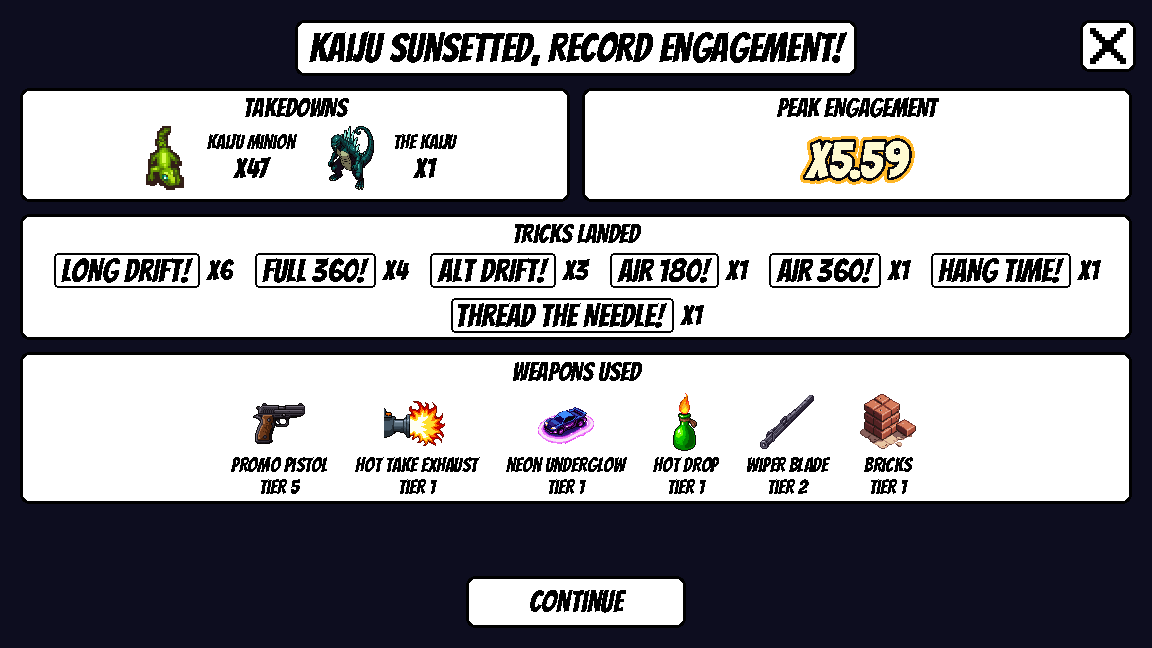
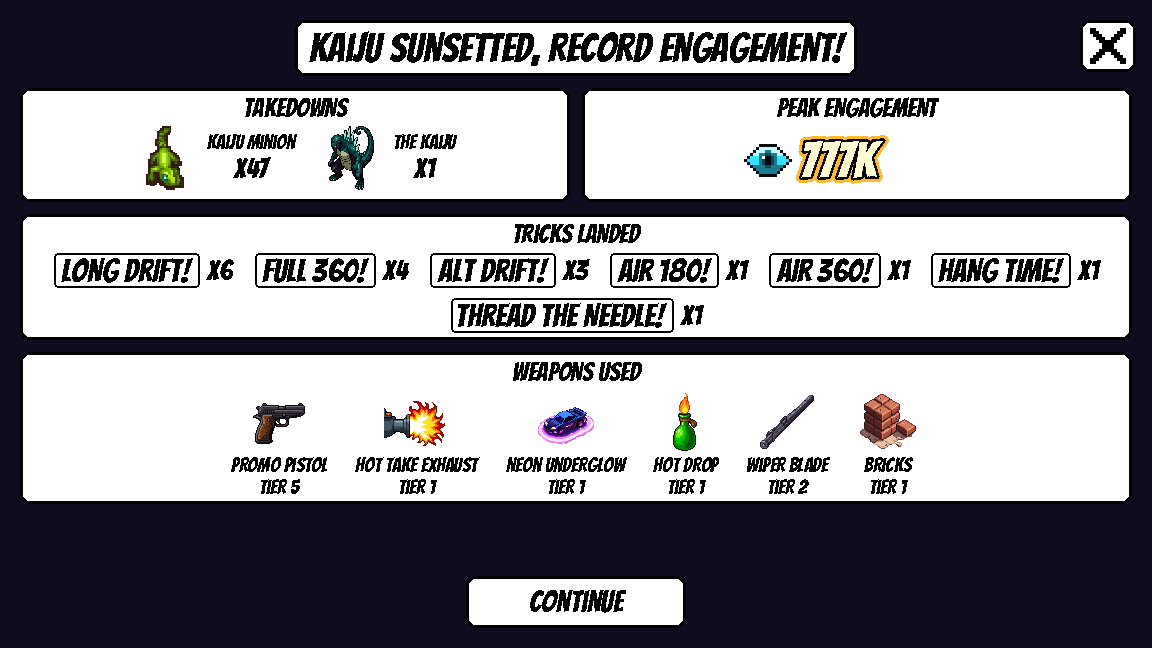
T-320: quick tuning, peak engagement shows the peak live viewers

Changed region(s): [[0.625, 0.216, 0.8125, 0.2778]]

diff --git a/game/docs/hud-and-menus/recap-screen.md b/game/docs/hud-and-menus/recap-screen.md
@@ -8,10 +8,10 @@ Task T-320 (UI Agent). What the player sees and does: `docs/hud-and-menus.md`, C
 
 - **Files:** `scripts/ui/recap_screen.gd` (class `RecapScreen`, a full-rect `Control`, nearest filtering), `scenes/menu/recap_screen.tscn` (the scene `GameFlow` instantiates as `game.recap`).
 - **API:** `show_summary(summary)` shows a `RunState.recap()` dictionary (T-319), replacing what is on show; a summary read back from JSON (the run history, T-363, all numbers floats) works the same, so the runs list (T-364) can reopen a saved run. `closed` is sent once by Continue (`continue_button`), the X (`close_button`) or a fresh Enter / keypad Enter (`_unhandled_key_input`, echoes ignored); `close()` does the same. `is_animating()`, `finish_animation()` (tests and screenshots).
-- **For tests:** `title_label`, `sections` (`"enemies"`, `"combo"`, `"tricks"`, `"weapons"` to their panels, only those on show), `enemy_rows[id]` = `{image, name, count}`, `trick_rows[id]` = `{image, count}`, `weapon_rows[id]` = `{image, name, tier}`, `combo_label`, `combo_heat`.
-- **Text:** every word from `res://data/recap_text.json` (T-318) through `RecapScreen.text("dotted.key")`; the title key from `title_key(summary)` (`win`; `time_up` for `loss_reason` "time"; otherwise `wreck`). Counts and the combo use the HUD's count form `WeaponIcons.TEXT_COUNT` ("x{n}"; the combo with two decimals, `combo_text()`). An id with no text in the file is not shown.
-- **Pictures:** enemies: `enemy_image(id)` takes the first square frame of `ENEMY_ART[id]` (`art/minion/minion_s.png`, `art/kaiju/kaiju_s.png`), cropped to its used pixels, cached; weapons: `LevelUpScreen.weapon_image(id)` (the card art, or its placeholder); tricks: `TrickPopupArt.texture(name, "normal", 0)`, the plain popup; the combo: a Bangers label styled by its own `ComboHeat` (`set_multiplier(highest_combo)`), inside a fixed-size holder so the pulse's scale is never reset by a container. The X is drawn in code (`CLOSE_GRID`, 12 x 12 at 3x).
+- **For tests:** `title_label`, `sections` (`"enemies"`, `"combo"`, `"tricks"`, `"weapons"` to their panels, only those on show), `enemy_rows[id]` = `{image, name, count}`, `trick_rows[id]` = `{image, count}`, `weapon_rows[id]` = `{image, name, tier}`, `peak_label`, `combo_heat`.
+- **Text:** every word from `res://data/recap_text.json` (T-318) through `RecapScreen.text("dotted.key")`; the title key from `title_key(summary)` (`win`; `time_up` for `loss_reason` "time"; otherwise `wreck`). Counts use the HUD's count form `WeaponIcons.TEXT_COUNT` ("x{n}", `count_text()`); the peak viewers use the counter's own number format. An id with no text in the file is not shown.
+- **Pictures:** enemies: `enemy_image(id)` takes the first square frame of `ENEMY_ART[id]` (`art/minion/minion_s.png`, `art/kaiju/kaiju_s.png`), cropped to its used pixels, cached; weapons: `LevelUpScreen.weapon_image(id)` (the card art, or its placeholder); tricks: `TrickPopupArt.texture(name, "normal", 0)`, the plain popup; Peak engagement (quick tuning, board 2026-10-29: viewers, not a multiplier): `peak_label` shows `ViewersData.format(peak_viewers(summary))` (the summary's `peak_viewers`; for an older summary without it, `RunState.peak_viewers_for(highest_combo)`), after the viewers' eye (`EYE_PATH` `art/hud/eye_icon.png` at `EYE_SCALE` 3); its look is the live viewers counter's: the heat step from `ViewersData.step_for_viewers` (fire takes the top step) applied by its own `ComboHeat` (`set_multiplier` at that step's threshold: colour, glow, pulse), or at the base the viewers colour (`viewers_color()`, hud.json `viewers_counter.color`); the label sits in a fixed-size holder so the pulse's scale is never reset by a container. The X is drawn in code (`CLOSE_GRID`, 12 x 12 at 3x).
 - **Order and leaving out:** enemies and tricks follow the text file's key order and are left out at 0; weapons follow the summary (the order taken) and need tier 1 or more; an empty section is left out.
 - **Look:** `StyleBoxFlat` panels and buttons (white, 3 px black border, 10 px corners, `anti_aliasing = false`), `Hud.comic_font()`, the main menu's background colour. The buttons have `focus_mode = FOCUS_NONE`. Pop-in: the title then each section, alpha in `POP_STEPS` per `FRAME` (0.04 s), `STAGGER` 0.12 s apart.
-- **Tests:** `tests/unit/test_recap_screen.gd` (titles per ending, counts above 0 only, trick popups, weapon card images and tiers, enemy sprites, the combo's heat step, empty sections left out, a JSON summary, every label from the text file, no words typed in the script, Continue / X / Enter close once, no keyboard focus, the X at the top right with nothing overlapping at 1152 x 648, the pop-in, a scripted run); the flow in `tests/unit/game/test_screen_flow.gd`.
+- **Tests:** `tests/unit/test_recap_screen.gd` (titles per ending, counts above 0 only, trick popups, weapon card images and tiers, enemy sprites, the peak viewers number, its look and the eye, an older summary without peak viewers, empty sections left out, a JSON summary, every label from the text file, no words typed in the script, Continue / X / Enter close once, no keyboard focus, the X at the top right with nothing overlapping at 1152 x 648, the pop-in, a scripted run); the flow in `tests/unit/game/test_screen_flow.gd`.
 - **Screenshots:** `bash game/tools/screenshot.sh res://tests/fixtures/recap_screen_win_demo.tscn <out.png> 90` (also `recap_screen_wreck_demo.tscn`, `recap_screen_time_up_demo.tscn`; fixture script `tests/fixtures/recap_screen_demo.gd`, which isolates the saves with `TestSave.isolate()`). Saved: `art-archive/T-320/screenshots/`.

diff --git a/docs/hud-and-menus.md b/docs/hud-and-menus.md
@@ -155,7 +155,7 @@ Task T-318 (decision: Game loop architecture, Decisions, "Recap screen in the MV
 - **Weapon names** (`weapon.*`): "Promo pistol" (new, the gun has no card title), and reused from the level-up cards' titles: "Hot Take Exhaust" (flamethrower), "Neon Underglow", "Hot Drop" (molotov), "Wiper Blade", "Bricks".
 - **Trick names** (`trick.*`), all reused word for word from the trick popups: LONG DRIFT!, FULL 360!, ALT DRIFT!, AIR 180!, AIR 360!, HANG TIME!, THREAD THE NEEDLE!.
 
-**The screen (task T-320).** Right after a run ends (after the wreck's 3 seconds on a health loss) the run makes way for the recap, full screen over the main menu's dark background, in the game's comic look: white rounded panels with black borders, black Bangers lettering with hard pixel edges, no generated art. From the top: the **title** for how the run ended in its own panel, with the **X** (a black pixel X on a white rounded square) at the top right; then **Takedowns** (each enemy type killed, its sprite, the first frame of its south-facing sheet, its name and "x{count}", e.g. "x47") beside **Peak engagement** (the highest combo as "x5.59", in the combo counter's heated look for that multiplier: colour, glow and pulse; Decisions, "Combo heat"); then **Tricks landed** (each trick as its plain trick popup, followed by "x{count}", wrapping onto a second row when needed); then **Weapons used** (each weapon the car ended with, its level-up card image, its name and "Tier {tier}"); and **Continue** at the bottom centre. "x{n}" is the HUD's own count form (the weapon icons'). A trick or an enemy with a count of 0 is left out. Proposals for the playtest: a section with nothing to show (no kills, no tricks) is left out; the highest combo always shows (x1.00 in the base look with no tricks); enemies and tricks are in the text file's order, weapons in the order taken; the panels pop in one after another (the title first) in stepped frames, about 0.7 seconds in all, while Continue and the X work at once; Enter also continues, and the buttons take no keyboard focus, so a key held from driving presses nothing. The screen can show any run's summary, also one read back from the run history, so the runs list (T-364) can reopen a saved run in it. How it is built: `game/docs/hud-and-menus/recap-screen.md`.
+**The screen (task T-320).** Right after a run ends (after the wreck's 3 seconds on a health loss) the run makes way for the recap, full screen over the main menu's dark background, in the game's comic look: white rounded panels with black borders, black Bangers lettering with hard pixel edges, no generated art. From the top: the **title** for how the run ended in its own panel, with the **X** (a black pixel X on a white rounded square) at the top right; then **Takedowns** (each enemy type killed, its sprite, the first frame of its south-facing sheet, its name and "x{count}", e.g. "x47") beside **Peak engagement** (the board's quick tuning, 2026-10-29: "peak engagement needs to be the max current views number, not a multiplier": the run's peak live viewers, written as the live viewers counter writes it, e.g. "236K" or "1.02M", with the viewers' eye before it, in the counter's look for that number: the viewers colour at the base, then the heat colours, glow and pulse; Live viewers counter, above); then **Tricks landed** (each trick as its plain trick popup, followed by "x{count}", wrapping onto a second row when needed); then **Weapons used** (each weapon the car ended with, its level-up card image, its name and "Tier {tier}"); and **Continue** at the bottom centre. "x{n}" is the HUD's own count form (the weapon icons'). A trick or an enemy with a count of 0 is left out. Proposals for the playtest: a section with nothing to show (no kills, no tricks) is left out; peak engagement always shows (2,500 viewers, the base, with no tricks); a run saved before the peak viewers were kept shows the viewers for its highest combo on the same curve; enemies and tricks are in the text file's order, weapons in the order taken; the panels pop in one after another (the title first) in stepped frames, about 0.7 seconds in all, while Continue and the X work at once; Enter also continues, and the buttons take no keyboard focus, so a key held from driving presses nothing. The screen can show any run's summary, also one read back from the run history, so the runs list (T-364) can reopen a saved run in it. How it is built: `game/docs/hud-and-menus/recap-screen.md`.
 
 ## Open questions
 

diff --git a/tasks/T-320-the-recap-screen.md b/tasks/T-320-the-recap-screen.md
@@ -1,7 +1,7 @@
 ---
 id: T-320
 title: The recap screen after every run, with pictures
-status: needs-playtest
+status: in-progress
 from: project-lead
 to: ui
 lead: Greenbull
@@ -57,6 +57,10 @@ The Project Lead's replies to the board on this ticket, newest last, one entry p
 
 Started (build B): the UI Agent is building the recap screen that closes every run, with Continue and the X, from your approved text.
 
+### 2026-10-29, Needs playtest → In progress
+
+Quick tuning: Peak engagement will show the run's highest live viewers count instead of the combo multiplier.
+
 ## QA report
 
 QA (sonnet), round 1: all seven criteria pass. qa_check: tests (3 sets) PASS, documents PASS, screenshots PASS (recap_win, recap_wreck, recap_time_up; viewed win and wreck: panels, sprites, card images, tiers, X top right, Continue present). Tests cover each ending (win, health, time at today's 0:00 behaviour) with Continue and X to the menu. Docs (HUD and menus, Game loop architecture, game/README.md index plus game/docs topic file) describe the screen. The T-317 hand-off is wired when the branches merge.
@@ -82,3 +86,16 @@ Written by the agent when it finishes.
 - **Docs updated:** `docs/hud-and-menus.md` (Content, "Recap screen": the built screen), `docs/game-loop-architecture.md` (flowchart recap node; Content, "Screen flow"), `game/docs/game-loop/screen-flow.md`, new `game/docs/hud-and-menus/recap-screen.md`, `game/README.md` (index line). Left for the Project Lead: Game loop architecture's old decision "In the MVP there is no recap" (already superseded) and its open question "(After MVP) Which stats does the recap screen show...", which the board's 2026-10-28 decision now answers.
 
 Board review files: art-archive/T-320/screenshots/recap_win.png, art-archive/T-320/screenshots/recap_wreck.png, art-archive/T-320/screenshots/recap_time_up.png
+- 2026-10-29, needs-playtest → in-progress: The board (2026-10-29, after playing build B): for build B, peak engagement needs to be the max current views number, not a multiplier.
+
+**Quick tuning (board, 2026-10-29).** The board's words: "for build B, peak engagement needs to be the max current views number, not a multiplier."
+
+- Merged `playtest/end-of-a-run` first (a fast-forward; it brings T-317's time's up screen, which already hands over to `show_recap`).
+- **Summary:** `RunState.recap()` gains `peak_viewers` (`highest_combo` is kept): `RunState.peak_viewers_for(highest_combo)`, i.e. `ViewersData.viewers_for` on T-332's curve. That is the number the live viewers counter counts up to at the run's highest combo (whole viewers, without its ±0.5% wobble). It is computed from the highest combo rather than read from the HUD, so it is the same with or without a HUD and in tests. It is saved with the run history (T-363 stores the whole summary).
+- **Screen:** "Peak engagement" (approved label kept) now shows that number, written the way the counter writes it (`ViewersData.format`: e.g. 236K, 777K, 1.02M), after the viewers' eye (`art/hud/eye_icon.png`, existing art), in the counter's look for that number: the viewers colour (#33e1ff) at the base step, the heat colours, glow and pulse at steps 1 to 3, and the top step for the fire number. No "x" multiplier any more.
+- **Older saved runs** without `peak_viewers` (my call): they show the viewers for their `highest_combo` on the same curve, so every run shows the same kind of number and the list never shows a multiplier.
+- **Tests:** `test_recap_screen.gd` now 18 (peak viewers as the counter writes them and its heat look, a low peak in the viewers colour, an older summary falling back to its highest combo, the eye beside the number; the label check accepts the viewers number); `test_run_recap.gd` +1 (`peak_viewers` is the peak after a crash cut and survives JSON).
+- **Test counts (foreground, all pass):** game/tools 657 OK (1 skipped); tools 573 OK; GUT 1894/1894 passing, TESTS PASSED.
+- **Screenshots retaken:** `art-archive/T-320/screenshots/recap_win.png` (777K, fire-step look), `recap_wreck.png` and `recap_time_up.png` (236K).
+- **Docs updated:** `docs/hud-and-menus.md` (Content, "Recap screen"), `docs/game-loop-architecture.md` (Content, "The run's stats for the recap": `peak_viewers`), `game/docs/hud-and-menus/recap-screen.md`, `game/docs/game-loop/the-run.md` (summary table), `game/docs/data/game-data.md` (run history fields).
+- No QA agent: ready for the board to play.

diff --git a/game/docs/data/game-data.md b/game/docs/data/game-data.md
@@ -22,7 +22,7 @@ Written by the Game Data Agent (task T-038); the enemy, weapon and garage data t
   - `buy(id) -> Dictionary` `{"ok": bool, "reason": String}`: if it can be bought it spends the price, raises the level and saves; a refusal changes nothing.
   - `bank_run(result, coins)` adds a run's coins and saves; `connect_run(run_state)` connects it to `run_ended`. `changed` is emitted after buying or banking. `save()` and `load_from_disk()` are there for completeness.
   - Tests: `tests/unit/test_player_progress.gd`.
-- **Run history (T-363):** `scripts/data/run_history.gd` (`RunHistory`) keeps every finished run in `user://run_history.json` (`{"runs": [entry, ...]}`, oldest first in the file). An entry is `RunState.recap()` (`result` "win" or "loss", `loss_reason` "time" or "health" or "", `time_survived`, `coins`, `likes`, `level`, `enemies_slain`, `tricks`, `highest_combo`, `weapons`) plus `ended_at` (local "YYYY-MM-DDTHH:MM:SS") and `ended_unix`. Cap: `MAX_RUNS` = 200, the oldest dropped (a proposal). A missing or broken file is an empty history. `runs()` returns copies, newest first (for the runs list, T-364); `count()`; `add_run(recap, ended_unix = now)` (ignores a recap with no result) saves and emits `changed`; `connect_run(run_state)` saves the final recap on `run_ended`, once. `GameFlow.history` is the game's instance, passed to `add_run(...)` so each game run is saved; the level creator's Play is not. Tests set the static `RunHistory.path` to `RunPaths.file(...)` (`TestSave` does it for the whole run). Tests: `tests/unit/test_run_history.gd`.
+- **Run history (T-363):** `scripts/data/run_history.gd` (`RunHistory`) keeps every finished run in `user://run_history.json` (`{"runs": [entry, ...]}`, oldest first in the file). An entry is `RunState.recap()` (`result` "win" or "loss", `loss_reason` "time" or "health" or "", `time_survived`, `coins`, `likes`, `level`, `enemies_slain`, `tricks`, `highest_combo`, `peak_viewers` (since T-320), `weapons`) plus `ended_at` (local "YYYY-MM-DDTHH:MM:SS") and `ended_unix`. Cap: `MAX_RUNS` = 200, the oldest dropped (a proposal). A missing or broken file is an empty history. `runs()` returns copies, newest first (for the runs list, T-364); `count()`; `add_run(recap, ended_unix = now)` (ignores a recap with no result) saves and emits `changed`; `connect_run(run_state)` saves the final recap on `run_ended`, once. `GameFlow.history` is the game's instance, passed to `add_run(...)` so each game run is saved; the level creator's Play is not. Tests set the static `RunHistory.path` to `RunPaths.file(...)` (`TestSave` does it for the whole run). Tests: `tests/unit/test_run_history.gd`.
 - **Upgrades reach the car (T-060):** `GameFlow.start_run()` calls `run.car.tuning.apply_acceleration_upgrade(progress)` (`scripts/driving/car_tuning.gd`) right after the run is built, which sets the car's `time_to_top_speed` to `progress.current_value("acceleration")` (level 0 is the base, 2.3 s, the car's default, so the car drives exactly as before). Only runs started through `GameFlow` get it; the drift prototype never calls it and keeps its own tuning and sliders. Because W snaps to cruise speed first, the real climb to top speed is a fixed share of that time, so it scales with the data. Health and damage upgrades (T-061, T-062) are applied the same way at run start. Tests: `tests/unit/game/test_acceleration_upgrade.gd`.
   - **Damage bonus (T-062):** `GameFlow.start_run()` calls `run.weapons.set_damage_bonus(progress.current_value("damage_bonus"))` right after the run is added. The rack keeps `damage_bonus_percent`; `damage_multiplier()` is `1 + percent / 100`. Each weapon's `apply_tier()` multiplies that tier's damage with `boosted_damage()` (weapon.gd), so the gun's bullets and the flame's ticks get the same factor, it stacks multiplicatively with the tier's own damage (the flame's hotter-flame tier), and it survives a new run's weapon reset. Level 0 is 0 percent: unchanged. Tests: `tests/unit/weapons/test_damage_bonus.gd`.
 - **Gift pack (T-144):** `data/gift_pack.json` holds the gift pack drop's numbers (`helicopter`: `speed_px_per_second`, `drop_height_px`, `offscreen_margin_px`; `package`: `fall_seconds`, `land_ahead_units`, `clearance_units`, `pickup_radius_units`). `scripts/data/gift_pack_data.gd` (`GiftPackData`) gives one function per key. See "The gift pack drop". Tests: `tests/unit/run/test_gift_drops.gd`.

diff --git a/docs/game-loop-architecture.md b/docs/game-loop-architecture.md
@@ -140,6 +140,7 @@ The run keeps the stats the recap screen shows (task T-319; Decisions, "Recap sc
 - **enemies_slain:** kills per enemy type ("minion", "kaiju"), counted when the car's weapons kill one.
 - **tricks:** how many times each trick was completed, by the id the combo uses (the drifts, 360s, alternate drifts, air tricks, airtime, thread the needle).
 - **highest_combo:** the highest multiplier reached.
+- **peak_viewers:** the live viewers counter's highest number in the run (T-320, the board's quick tuning of 2026-10-29: the recap's "Peak engagement" shows viewers, not a multiplier): the viewers for the highest combo on the viewers curve (Decisions, "The combo shows as live viewers"), the number the counter counts up to, without its small wobble. Saved with the run history like the rest.
 - **weapons:** every weapon the car owned at the end, with the tier it ended on and the kills it made (the kills are a proposal, since they were cheap to count).
 - **Also kept, for the recap and the runs list:** the result (win or loss), why a loss happened (the clock ran out, or health), the time survived, the coins, the likes gained in total and the level reached.
 

diff --git a/game/docs/game-loop/the-run.md b/game/docs/game-loop/the-run.md
@@ -149,6 +149,7 @@ The drain runs with the clock (`advance()`), so it stops while the run is paused
 | `enemies_slain` | `{enemy type: kills}`, types `"minion"` and `"kaiju"` (`ENEMY_TYPE` on each enemy script) |
 | `tricks` | `{trick id: count}`, every id the combo counts, including `"airtime"` and `"thread_the_needle"` |
 | `highest_combo` | The highest multiplier reached |
+| `peak_viewers` | The live viewers counter's peak: `RunState.peak_viewers_for(highest_combo)`, i.e. `ViewersData.viewers_for` on T-332's curve, whole viewers, no wobble (T-320 quick tuning, 2026-10-29) |
 | `weapons` | `{weapon id: {"tier": tier it ended on, "kills": kills}}` for the owned weapons |
 
 Feeding it: `enemy_slain(enemy_type, weapon_id)` (the minion spawner and the kaiju boss call it when an enemy dies; ignored once the run ended), `add_trick`, `add_airtime_trick` and `add_needle_trick` count tricks. Weapons pass their id to `take_damage(amount, source)`, so an enemy knows `last_hit_by`; the kill goes to the weapon that struck the last blow. The weapon list comes from `state.weapons_source` (set by the rack: `Weapons.owned_tiers()`). Damage per weapon is not counted.
